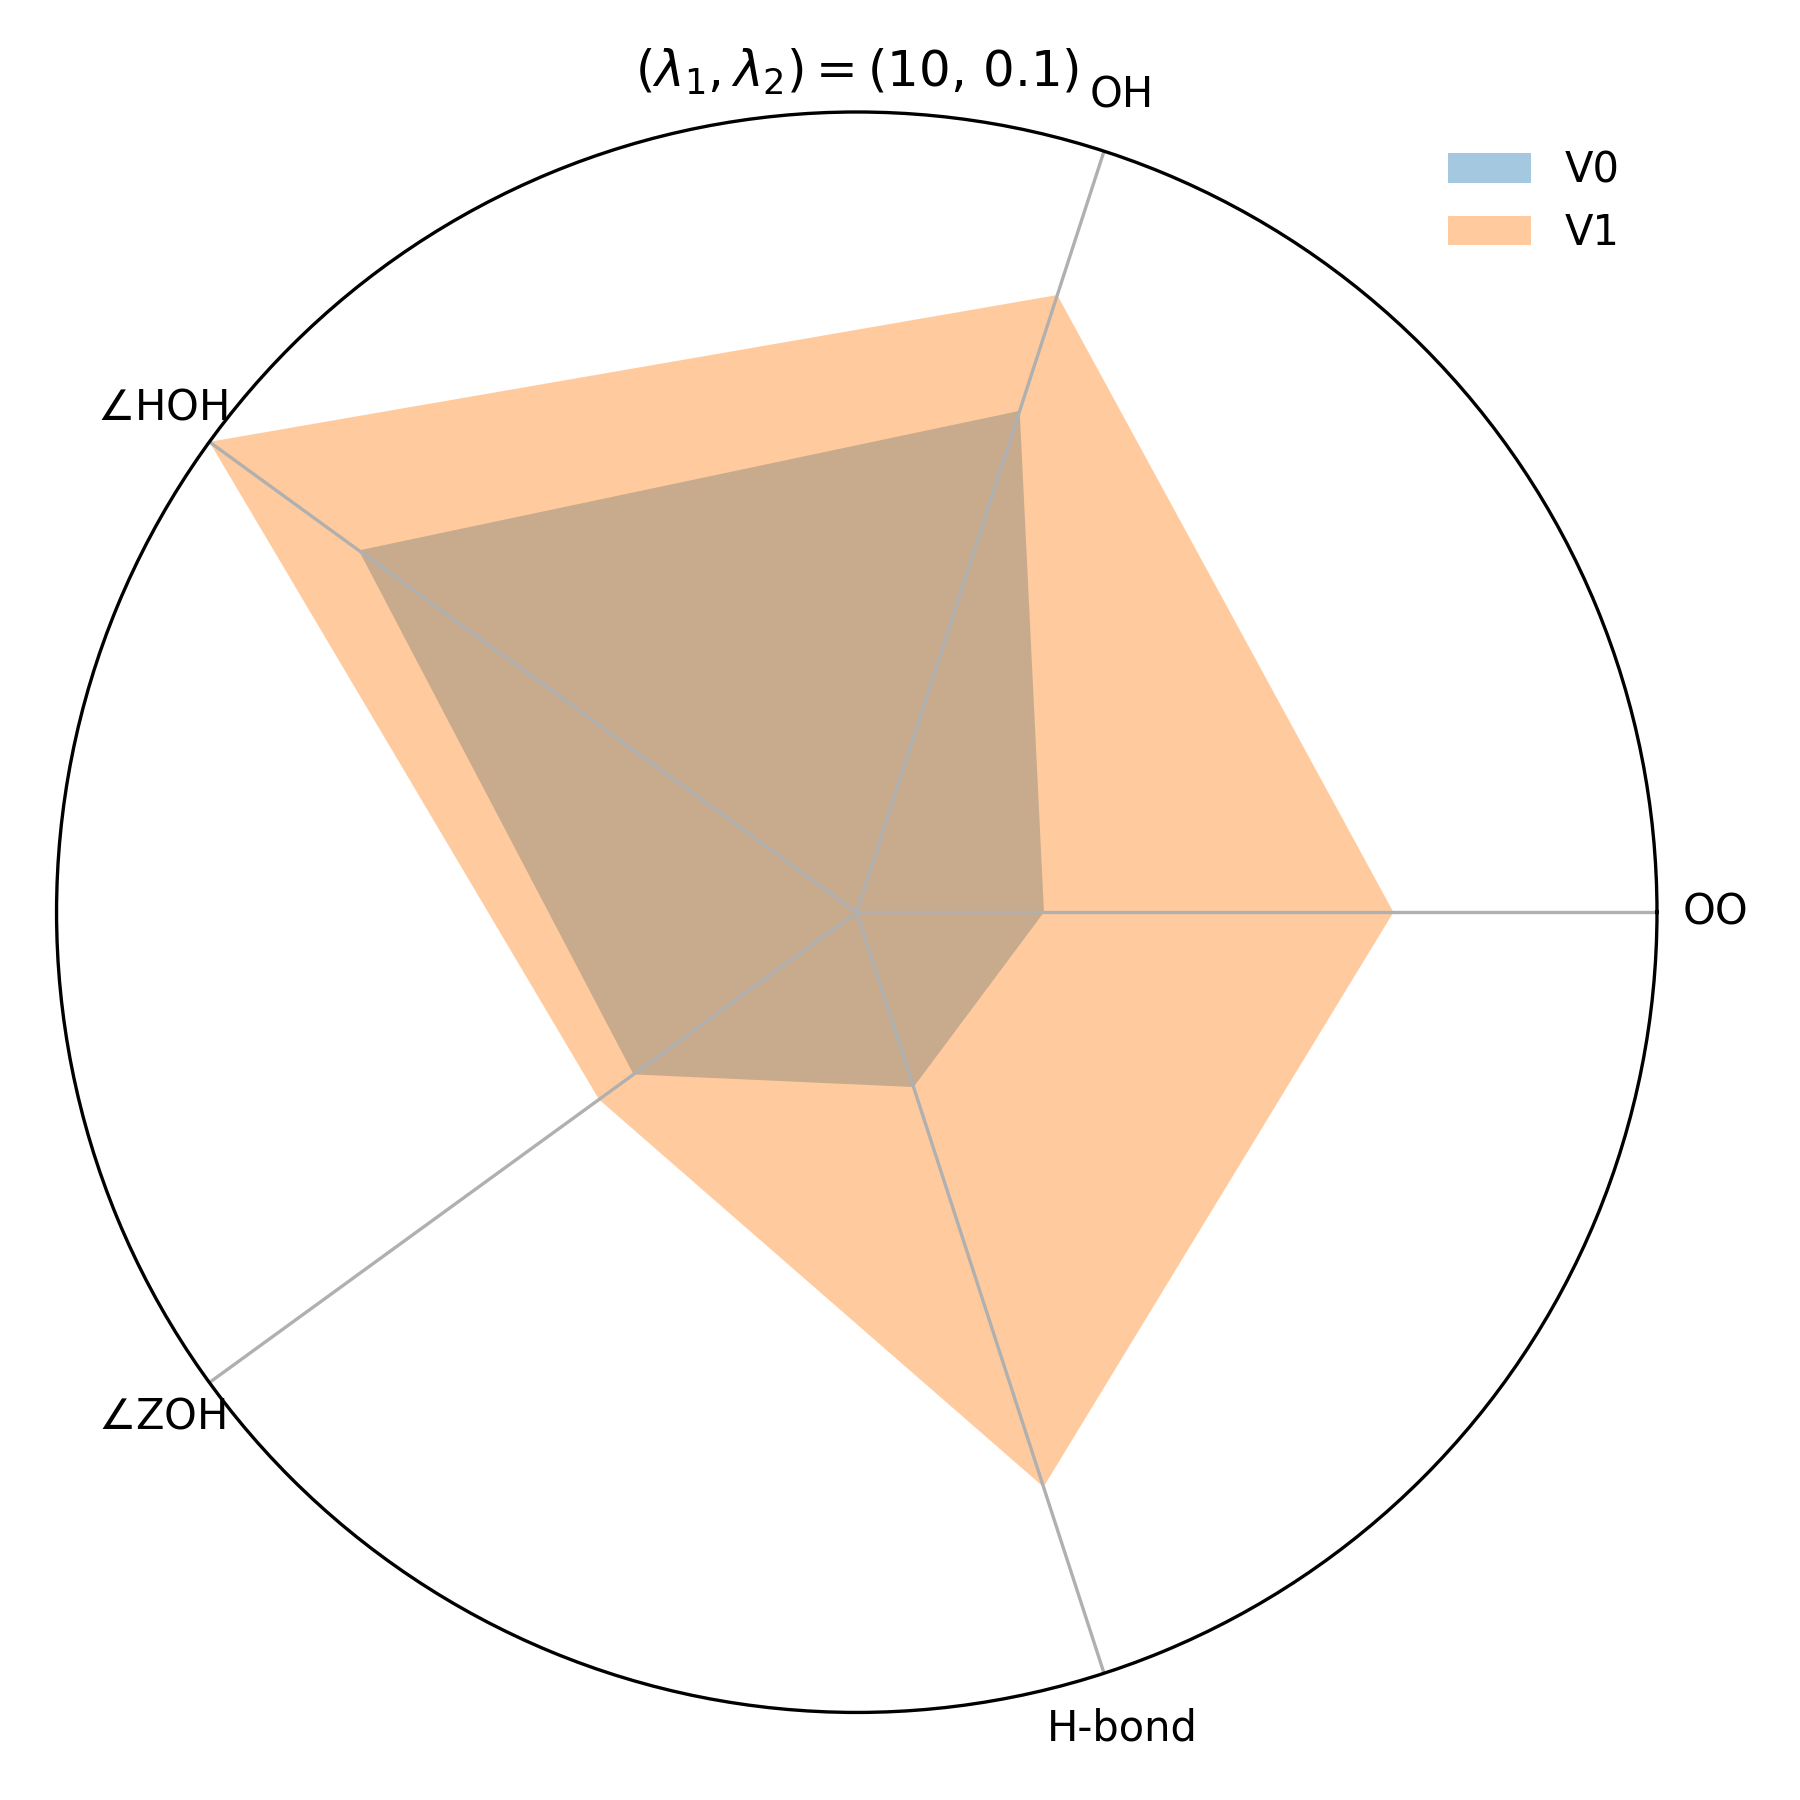
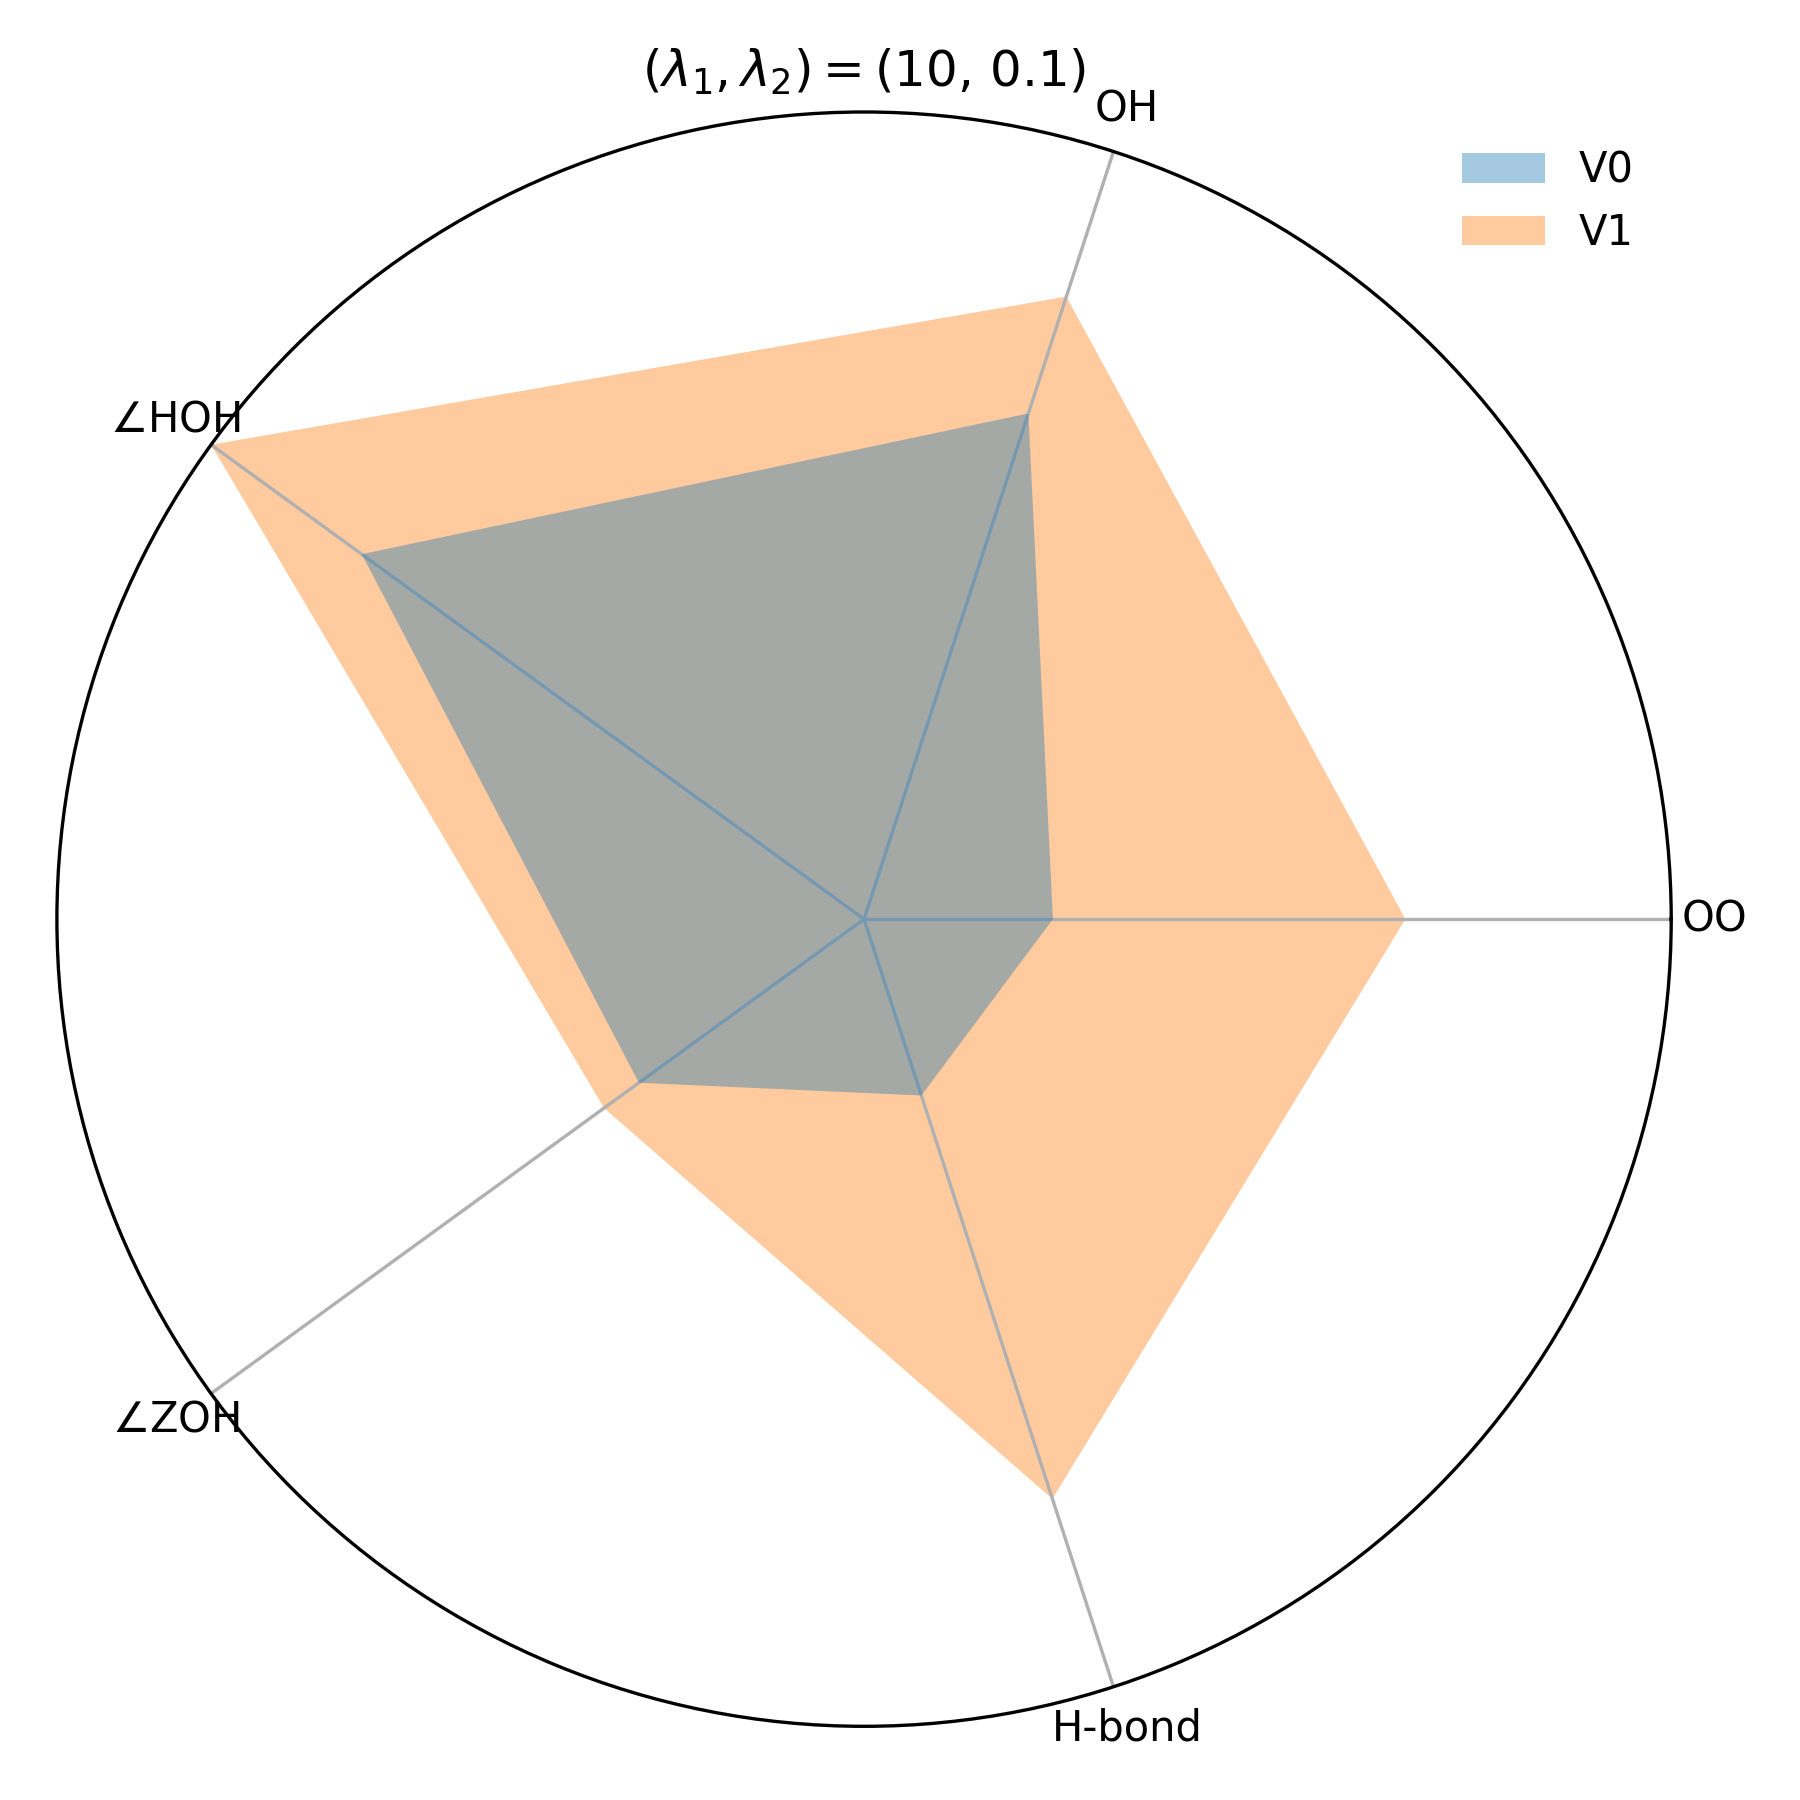
Phasediagram (#26)
* save scores to json file

* update images

* add phase diagram

* add phase diagram images

* add the first three

* update

diff --git a/06_phaseDiagram.py b/06_phaseDiagram.py
@@ -1,0 +1,79 @@
+import json
+from matplotlib import pyplot as plt
+import numpy as np
+from mpl_toolkits.axes_grid1 import make_axes_locatable
+
+# Load JSON file
+with open('images/final_scores.json', 'r') as file:
+    scores = json.load(file)
+
+# Define L1 and L2 values
+L1_values = [10, 20, 30, 40, 50, 60, 70, 80, 90, 100]
+L2_values = [0.1, 1, 10]
+
+# Create an empty grid to store the scores
+score_grid = np.zeros((6, len(L2_values), len(L1_values)))
+score_increase = np.zeros_like(score_grid)
+labels = ['OO', 'OH', r'$\angle$HOH', r'$\angle$ZOH', 'H-bond', 'Overall']
+# Populate the grid with scores
+for j, L2 in enumerate(L2_values):
+    for i, L1 in enumerate(L1_values):
+        model = f'PPAFM2Exp_CoAll_L{L1}_L{L2}_Elatest'
+        score_grid[0, j, i] = scores[model]['OO'] 
+        score_grid[1, j, i] = scores[model]['OH'] 
+        score_grid[2, j, i] = scores[model]['HOH'] 
+        score_grid[3, j, i] = scores[model]['ThetaOH'] 
+        score_grid[4, j, i] = scores[model]['Hbonds'] 
+        score_grid[5, j, i] = scores[model]['Overall'] 
+
+        # Calculate the increase in score compared to the reference model
+        score_increase[0, j, i] = scores[model]['OO'] - scores['Ref']['OO']
+        score_increase[1, j, i] = scores[model]['OH'] - scores['Ref']['OH']
+        score_increase[2, j, i] = scores[model]['HOH'] - scores['Ref']['HOH']
+        score_increase[3, j, i] = scores[model]['ThetaOH'] - scores['Ref']['ThetaOH']
+        score_increase[4, j, i] = scores[model]['Hbonds'] - scores['Ref']['Hbonds']
+        score_increase[5, j, i] = scores[model]['Overall'] - scores['Ref']['Overall']
+
+def plot_heatmaps(score_data, title_suffix, cmap='viridis', filename=None):
+    # Calculate global vmin and vmax for consistent color scale
+    vmin = np.min(score_data)
+    vmax = np.max(score_data)
+
+    # Create subplots for 6 heatmaps in a grid
+    fig, axes = plt.subplots(3, 2, figsize=(10, 5))  # 3 rows, 2 columns
+
+    # Loop over each subplot
+    for i, ax in enumerate(axes.flat):
+        # Plot the heatmap with consistent vmin and vmax
+        im = ax.imshow(score_data[i], cmap=cmap, aspect='equal', origin='lower', vmin=vmin, vmax=vmax)
+
+        # Find the top 3 values and their indices
+        flat_indices = np.argsort(score_data[i].flatten())[-3:]  # Indices of top 3 values
+        top_indices = np.unravel_index(flat_indices, score_data[i].shape)  # Convert to 2D indices
+
+        # Highlight the top 3 cells with markers
+        ax.scatter(top_indices[1], top_indices[0], color='red', s=50, marker='o', label='Top 3')
+
+        # Add labels and title
+        ax.set_xticks(range(len(L1_values)))
+        ax.set_xticklabels(L1_values, fontsize=8)
+        ax.set_yticks(range(len(L2_values)))
+        ax.set_yticklabels(L2_values, fontsize=8)
+        ax.set_xlabel('$\lambda_{cycle}$', fontsize=10) if i > 3 else None
+        ax.set_ylabel('$\lambda_{identity}$', fontsize=10) if i % 2 == 0 else None
+
+        # Create a colorbar with matching height
+        divider = make_axes_locatable(ax)
+        cax = divider.append_axes("right", size="5%", pad=0.1)
+        cbar = fig.colorbar(im, cax=cax)
+        cbar.set_label(r'{} score {}'.format(labels[i], title_suffix), fontsize=10)
+
+    # Adjust layout to prevent overlap
+    fig.subplots_adjust(hspace=0.1, wspace=0.3, left=0.1, bottom=0.1, right=0.90, top=0.95)
+    if filename is not None:
+        plt.savefig(filename, dpi=600)
+    plt.show()
+
+# Plot heatmaps for score and score_increase
+plot_heatmaps(score_grid, '', filename='images/phase_diagram.png')
+plot_heatmaps(score_increase, '$\Delta$', cmap='BrBG', filename='images/phase_diagram_increase.png')

diff --git a/05_radarChart.py b/05_radarChart.py
@@ -4,6 +4,8 @@ import json
 import pandas as pd
 import seaborn as sns
 
+showFig = True
+
 # Function to calculate the filled area of a radar plot
 def calculate_filled_area(data, angles):
     # Convert polar coordinates to Cartesian coordinates
@@ -85,11 +87,12 @@ axes[-1].tick_params(axis='x', rotation=45)
 #plt.tight_layout()
 print(min_max)
 plt.savefig('images/similarities_Label.png', dpi=300)
-plt.show()
+plt.show() if showFig else None
 plt.close()
 
 print('The min and max values for WdistanceC are:')
 
+final_scores = {}
 # Data
 categories = [r'OO', r'OH', r'$\angle$HOH', r'$\angle$ZOH', r'H-bond']
 for L1 in [10, 20, 30, 40, 50, 60, 70, 80, 90, 100]:
@@ -117,15 +120,17 @@ for L1 in [10, 20, 30, 40, 50, 60, 70, 80, 90, 100]:
         data_c.append(data_c[0])  # Close the circle
         #ax.fill(angles, values, alpha=0.4, label=label)
         #ax.plot(angles, data_3, linewidth=1, label='V0')
-        ax.fill(angles, data_3, alpha=0.4, label='V0')
-        #ax.plot(angles, data_c, linewidth=1, label='V1')
-        ax.fill(angles, data_c, alpha=0.4, label='V1')
+        ax.fill(angles, data_3, alpha=0.4, label='V0', zorder=2)
+        ax.fill(angles, data_c, alpha=0.4, label='V1', zorder=1)
 
 
         # Calculate areas for data_3 and data_c
         area = calculate_filled_area([1, 1, 1, 1, 1, 1], angles)
         area_3 = calculate_filled_area(data_3, angles)
         area_c = calculate_filled_area(data_c, angles)
+        score_3 = (area_3 / area)
+        score_c = (area_c / area)
+        final_scores[model] = {'Overall': score_c, 'OO': data_c[0], 'OH': data_c[1], 'HOH': data_c[2], 'ThetaOH': data_c[3], 'Hbonds': data_c[4]} 
         print('Area for best:', area)
         print('Area for V0:', area_3)
         print('Area for V1:', area_c)
@@ -147,5 +152,11 @@ for L1 in [10, 20, 30, 40, 50, 60, 70, 80, 90, 100]:
 
         plt.tight_layout()
         plt.savefig('images/{}/radar.png'.format(model), dpi=300)
-        plt.show()
+        plt.show() if showFig else None
         plt.close()
+
+final_scores['Ref'] = {'Overall': score_3, 'OO': data_3[0], 'OH': data_3[1], 'HOH': data_3[2], 'ThetaOH': data_3[3], 'Hbonds': data_3[4]} 
+print(final_scores)
+# Save final scores to a file
+with open('images/final_scores.json', 'w') as file:
+    json.dump(final_scores, file)
